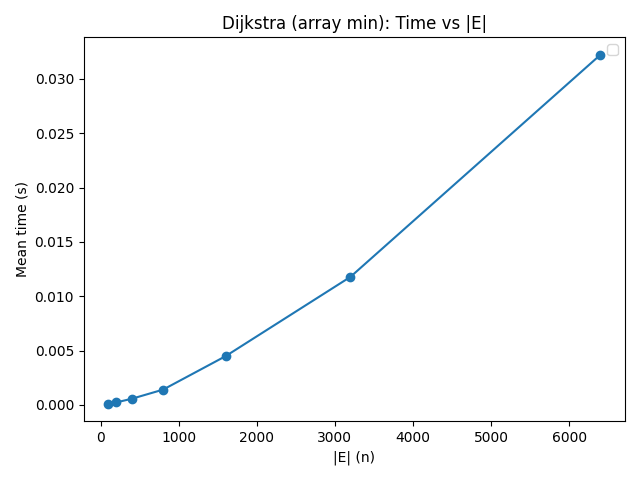
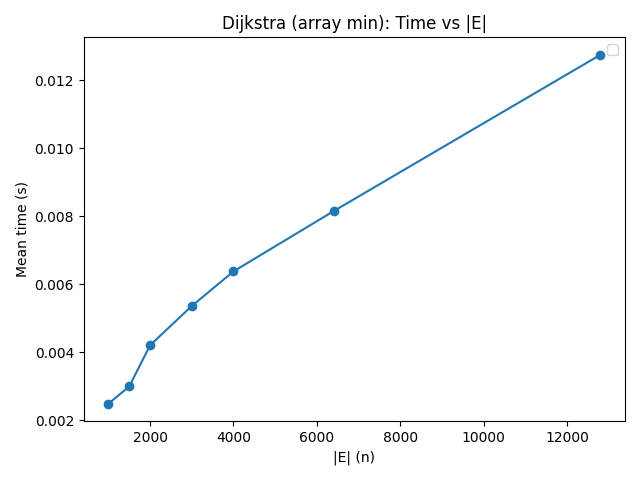
updated test ranges

diff --git a/Djikstra Heap.py b/Djikstra Heap.py
@@ -101,9 +101,9 @@ def test(V, E):
     t = time.time()-t
     return t
 
-runs = 100
+runs = 50
 
-v_values = [100, 200, 400, 800, 1600, 3200, 6400]
+v_values = [200, 400, 800, 1600, 3200, 6400, 12800]
 v_times = []
 for i in v_values:
     avg = 0
@@ -121,12 +121,12 @@ plt.tight_layout()
 plt.savefig("time vs v (heap).png")
 plt.close()
 
-e_values = [100, 200, 400, 800, 1600, 3200, 6400]
+e_values = [999, 1500, 2000, 3000, 4000, 6400, 12800]
 e_times = []
 for i in e_values:
     avg = 0
     for _ in range(runs):
-        avg += test(i//2, i)
+        avg += test(1000, i)
     e_times.append(avg/runs)
 
 plt.figure()
